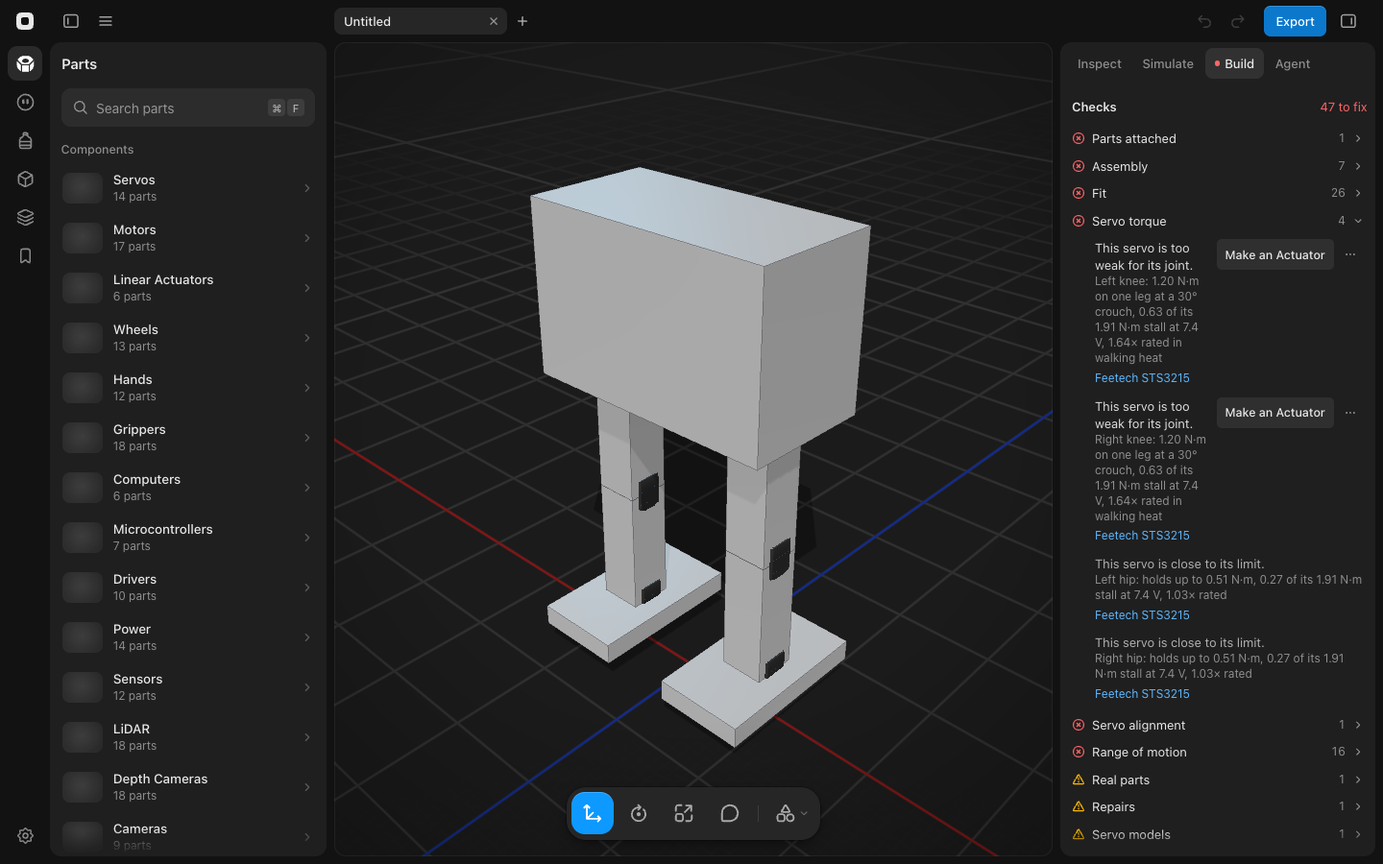
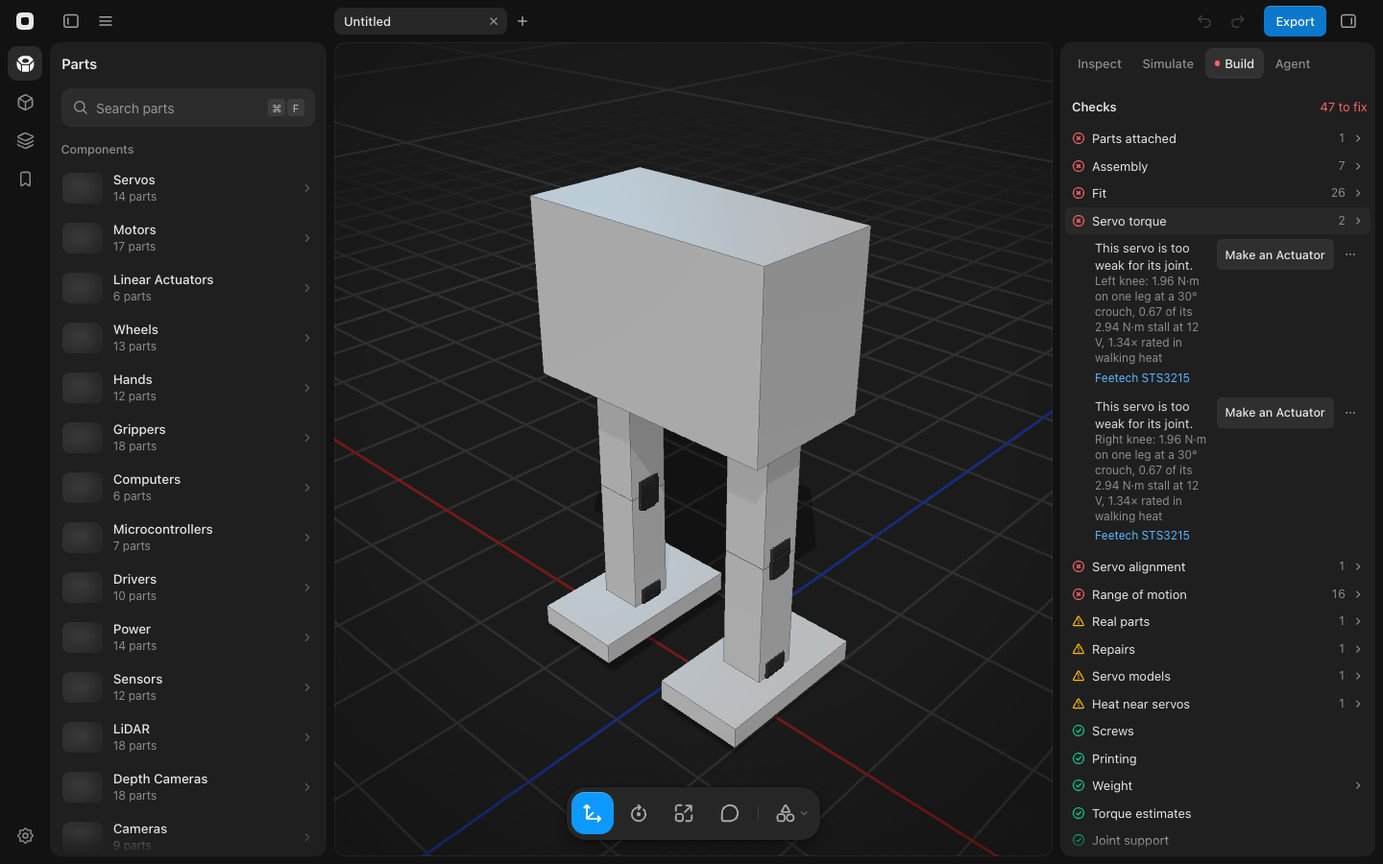
Tell the Build check help articles about Make an Actuator
A failing Servo torque item now shows Make an Actuator where other items
show Fix. The troubleshooting article for blocked checks gets a "Servo
torque is red" section with that step, and Checks in the Build tab says
which items offer it. Both link the Make an Actuator article.

The other help articles that cover files this change edits still hold.
In those files the change only rewires code.

diff --git a/src/actuator/pickActuator.ts b/src/actuator/pickActuator.ts
@@ -1,6 +1,8 @@
 import type { ActuatorSpec } from '../data/components';
 import { bedSizeText, fitOnBed, type Bed } from '../print/bed';
-import { holdVerdict, PEAK_DERATE, ratingAt, stanceVerdict } from '../utils/actuatorRules';
+import { holdVerdict, PEAK_DERATE, ratingAt, stanceVerdict, suitsVolts } from '../utils/actuatorRules';
+import { nm } from '../utils/engineeringFormat';
+import { sizeLabel } from '../utils/size';
 import { cycloidalDesign, type CycloidalDesign } from './cycloidal';
 import { cycloidalOptions, cycloidalSpec, cycloidalVariantId } from './generated';
 import { BLDC_MOTORS, type BldcDriver, type BldcMotor } from './motors';
@@ -50,6 +52,15 @@ function choiceOf(option: { motor: BldcMotor; driver: BldcDriver; ratio: number 
   };
 }
 
+function voltsProblem(options: ActuatorChoice[], volts: number): string {
+  const low = Math.min(...options.map((c) => c.spec.volts[0]));
+  const high = Math.max(...options.map((c) => c.spec.volts[1]));
+
+  return `Actuators run on ${low}–${high} V, not the ${volts} V supply`;
+}
+
+const suitsSupply = (c: ActuatorChoice, volts?: number) => volts === undefined || suitsVolts(c.spec, volts);
+
 export function pickActuator(need: ActuatorNeed): ActuatorPick {
   const all = BLDC_MOTORS.flatMap(cycloidalOptions).map(choiceOf);
   const printable = all.filter((c) => fitsBed(c.design, need.bed));
@@ -57,14 +68,20 @@ export function pickActuator(need: ActuatorNeed): ActuatorPick {
   if (!printable.length) {
     const smallest = Math.min(...all.map((c) => c.design.housingD));
 
-    return { problem: `The smallest actuator is ${smallest} mm across, too wide for a ${bedSizeText(need.bed)} bed` };
+    return {
+      problem: `The smallest actuator is ${sizeLabel([smallest])} across, wider than the ${bedSizeText(need.bed)} bed`,
+    };
   }
 
-  const choice = printable.find((c) => carries(c.spec, need));
+  const powered = printable.filter((c) => suitsSupply(c, need.volts));
+
+  if (!powered.length) return { problem: voltsProblem(printable, need.volts!) };
+
+  const choice = powered.find((c) => carries(c.spec, need));
 
   if (choice) return { choice };
 
-  const strongest = Math.max(...printable.map((c) => c.spec.stallNm));
+  const strongest = Math.max(...powered.map((c) => c.spec.stallNm));
 
-  return { problem: `No actuator carries ${need.loadNm.toFixed(2)} N·m: the strongest stalls at ${strongest} N·m` };
+  return { problem: `The strongest actuator stalls at ${nm(strongest)} N·m` };
 }

diff --git a/src/actuator/actuatorBuild.test.ts b/src/actuator/actuatorBuild.test.ts
@@ -1,6 +1,7 @@
 import { describe, expect, it } from 'vitest';
 import { actuatorOf } from '../data/components';
 import { fixtureTriangles } from '../sim/fixtures/parts';
+import { fallBiped } from '../sim/fixtures/fallBiped';
 import { buildMjcf } from '../sim/mjcf';
 import { buildBom } from '../utils/bom';
 import { buildRig } from '../utils/kinematics';
@@ -37,6 +38,20 @@ describe('Make an Actuator', () => {
     expect(after.joints.find((j) => j.id === 'l_knee')!.actuators).toEqual([after.motorId]);
     expect(status(after, 'l_knee')).toBe('pass');
     expect(kneeItem(after)).toBeUndefined();
+  });
+
+  it('powers the actuator from the supply the servos share, and refuses a supply below its driver', () => {
+    const after = makeActuator(loadedBiped(), 'l_knee');
+    const row = (scene: ActuatorScene, check: string) => engineeringOf(scene).rows.find((r) => r.check === check)!;
+    const smallBiped = fallBiped('c001', 3000);
+
+    expect(row(after, 'Servo voltage')).toMatchObject({ status: 'pass', detail: expect.stringContaining('10–48 V') });
+    expect(row(after, 'Supply current').detail).not.toBe(row(loadedBiped(), 'Supply current').detail);
+    expect(kneeItem(smallBiped)).toMatchObject({
+      status: 'fail',
+      text: expect.stringContaining('not the 7.4 V supply'),
+    });
+    expect(kneeItem(smallBiped)).not.toHaveProperty('fix');
   });
 
   it('writes the knee’s gear, force range and reflected armature into the MJCF', () => {
@@ -85,6 +100,21 @@ describe('Make an Actuator', () => {
       'Disc 1',
       'Disc 2',
     ]);
+  });
+
+  it('replaces the whole actuator when the joint already has one', () => {
+    const once = makeActuator(loadedBiped(), 'l_knee');
+    const twice = buildActuator(once, 'l_knee', choiceOf(D6374_15)!)!;
+    const housings = twice.parts.filter((p) => p.name === 'Housing');
+    const ids = new Set(twice.parts.map((p) => p.id));
+    const knee = twice.joints.find((j) => j.id === 'l_knee')!;
+
+    expect(twice.parts).toHaveLength(once.parts.length);
+    expect(housings).toHaveLength(1);
+    expect(twice.removed).toBe(once.motorId);
+    expect(twice.joints.flatMap((j) => [...j.parent, ...j.child]).every((id) => ids.has(id))).toBe(true);
+    expect(knee.actuators).toEqual([twice.motorId]);
+    expect(twice.parts.find((p) => p.id === twice.motorId)!.componentVariant).toBe('cycloidal-15-moteus-r4');
   });
 
   it('gives the same actuator for the same scene and joint', () => {

diff --git a/src/actuator/actuatorBuild.ts b/src/actuator/actuatorBuild.ts
@@ -5,6 +5,7 @@ import type { RobotJoint, ScenePart } from '../types/robotics';
 import { prettyJointName } from '../utils/kinematics';
 import { pieceCad, PRINTED_PIECES } from './actuatorCode';
 import { DISC_BEARING, OUTPUT_BEARING } from './cycloidal';
+import { cycloidalVariant } from './generated';
 import { ENCODER_ID } from './motors';
 import type { ActuatorChoice } from './pickActuator';
 
@@ -184,12 +185,30 @@ function rewire(joints: RobotJoint[], target: RobotJoint, ids: Rewire): RobotJoi
   );
 }
 
-export function buildActuator(scene: ActuatorScene, jointId: string, choice: ActuatorChoice): BuiltActuator | null {
-  const joint = scene.joints.find((j) => j.id === jointId);
+const isGenerated = (p: ScenePart) => !!p.componentId && !!cycloidalVariant(p.componentId, p.componentVariant ?? '');
 
-  if (!joint || joint.type !== 'revolute') return null;
+function withoutOld(scene: ActuatorScene, servo: ScenePart | undefined): ActuatorScene {
+  const groupId = servo && isGenerated(servo) ? servo.group?.id : undefined;
 
-  const servo = scene.parts.find((p) => p.id === joint.actuators?.[0]);
+  if (!groupId) return scene;
+
+  const gone = new Set(scene.parts.filter((p) => p.group?.id === groupId && p.id !== servo?.id).map((p) => p.id));
+  const keep = (ids: string[]) => ids.filter((id) => !gone.has(id));
+
+  return {
+    parts: scene.parts.filter((p) => !gone.has(p.id)),
+    joints: scene.joints.map((j) => ({ ...j, parent: keep(j.parent), child: keep(j.child) })),
+  };
+}
+
+export function buildActuator(current: ActuatorScene, jointId: string, choice: ActuatorChoice): BuiltActuator | null {
+  const target = current.joints.find((j) => j.id === jointId);
+
+  if (!target || target.type !== 'revolute') return null;
+
+  const servo = current.parts.find((p) => p.id === target.actuators?.[0]);
+  const scene = withoutOld(current, servo);
+  const joint = scene.joints.find((j) => j.id === jointId)!;
   const frame = actuatorFrame(scene, joint, servo, choice.design.stageH);
   const taken = new Set(scene.parts.filter((p) => p.id !== servo?.id).map((p) => p.id));
   const group = { id: uniqueId(`${joint.id}-actuator`, taken), name: `${prettyJointName(joint.name)} actuator` };

diff --git a/src/actuator/actuatorFix.ts b/src/actuator/actuatorFix.ts
@@ -12,17 +12,16 @@ export type ActuatorFix = Extract<FindingFix, { kind: 'make-actuator' }>;
 export const sceneBed = (project: Pick<ProjectSettings, 'printer'>, bed?: Bed): Bed =>
   bed ?? bedOf(resolvePrinter(project.printer, []).model);
 
-export function actuatorFor(load: JointLoad, bed: Bed, walk?: WalkSim | string): ActuatorPick {
+export interface OfferScene {
+  bed: Bed;
+  walk?: WalkSim | string;
+  volts?: number;
+}
+
+export function actuatorFor(load: JointLoad, { bed, walk, volts }: OfferScene): ActuatorPick {
   const peakNm = typeof walk === 'object' ? walk.joints[load.joint.id]?.p99Nm : undefined;
 
-  return pickActuator({
-    loadNm: load.loadNm,
-    kind: load.kind,
-    rmsNm: load.simRmsNm,
-    peakNm,
-    volts: load.volts,
-    bed,
-  });
+  return pickActuator({ loadNm: load.loadNm, kind: load.kind, rmsNm: load.simRmsNm, peakNm, volts, bed });
 }
 
 export const fixOf = (joint: string, c: ActuatorChoice): ActuatorFix => ({
@@ -54,10 +53,10 @@ export interface TorqueOffer {
   why?: string;
 }
 
-export function torqueOffer(load: JointLoad, bed: Bed, walk?: WalkSim | string): TorqueOffer {
+export function torqueOffer(load: JointLoad, scene: OfferScene): TorqueOffer {
   if (load.status !== 'fail' || !load.joint.actuators?.length) return {};
 
-  const pick = actuatorFor(load, bed, walk);
+  const pick = actuatorFor(load, scene);
 
   return 'choice' in pick ? { fix: fixOf(load.joint.id, pick.choice) } : { why: pick.problem };
 }

diff --git a/src/actuator/pickActuator.test.ts b/src/actuator/pickActuator.test.ts
@@ -43,13 +43,19 @@ describe('pickActuator', () => {
     const pick = pickActuator(need(1, { bed: small }));
 
     expect('choice' in pick).toBe(false);
-    expect(pick).toEqual({ problem: 'The smallest actuator is 84.5 mm across, too wide for a 80 × 80 × 80 mm bed' });
+    expect(pick).toEqual({ problem: 'The smallest actuator is 84.5 mm across, wider than the 80 × 80 × 80 mm bed' });
+  });
+
+  it('never offers a driver the supply can’t power, and says why', () => {
+    expect(pickActuator(need(1, { volts: 7.4 }))).toEqual({
+      problem: 'Actuators run on 10–48 V, not the 7.4 V supply',
+    });
+    expect(pickActuator(need(1, { volts: 12 }))).toHaveProperty('choice.driver.short', 'moteus-c1');
+    expect(pickActuator(need(1, { volts: 46 }))).toHaveProperty('choice.driver.short', 'moteus-c1');
   });
 
   it('says what the strongest actuator stalls at when none carries the load', () => {
-    expect(pickActuator(need(200))).toEqual({
-      problem: 'No actuator carries 200.00 N·m: the strongest stalls at 89.32 N·m',
-    });
+    expect(pickActuator(need(200))).toEqual({ problem: 'The strongest actuator stalls at 89.32 N·m' });
   });
 
   it('gives the same actuator for the same inputs', () => {

diff --git a/src/utils/engineering.ts b/src/utils/engineering.ts
@@ -128,10 +128,10 @@ export function robotWeight(input: Pick<EngineeringInputs, 'parts' | 'project' |
   return { masses, byId, bodies, all };
 }
 
-const actuatorOffers = (input: EngineeringInputs) => {
-  const bed = sceneBed(input.project, input.bed);
+const actuatorOffers = (input: EngineeringInputs, volts?: number) => {
+  const scene = { bed: sceneBed(input.project, input.bed), walk: input.walk, volts };
 
-  return (l: JointLoad) => torqueOffer(l, bed, input.walk);
+  return (l: JointLoad) => torqueOffer(l, scene);
 };
 
 export function runEngineering(input: EngineeringInputs): EngineeringReport {
@@ -160,7 +160,7 @@ export function runEngineering(input: EngineeringInputs): EngineeringReport {
     ...(ctx.joints.length ? [] : [{ check: 'Servo torque', status: 'not run' as const, detail: 'No joints' }]),
     ...(loads.length
       ? [
-          withNoFeetNote(torqueRow(loads, env.crouch.share, actuatorOffers(input)), floating),
+          withNoFeetNote(torqueRow(loads, env.crouch.share, actuatorOffers(input, env.volts)), floating),
           ...peakRow(loads, project, input.walk, servoLookup(ctx.byPart)),
           ...fallsRow(loads, input.falls),
         ]

diff --git a/src/workspace/useMakeActuator.ts b/src/workspace/useMakeActuator.ts
@@ -3,6 +3,7 @@ import { actuatorFor, choiceOf, type ActuatorFix } from '../actuator/actuatorFix
 import type { ActuatorChoice } from '../actuator/pickActuator';
 import { bedOf } from '../print/bed';
 import type { ScenePart } from '../types/robotics';
+import { servoParts, servoSupplyVolts } from '../utils/engineeringPower';
 import { IS_WEB_DEMO } from '../utils/platform/webDemo';
 import { runEngineeringNow } from './engineeringNow';
 import { freshWalk } from './storedWalk';
@@ -26,7 +27,8 @@ export function useMakeActuator(core: WorkspaceCore) {
 
     if (!load) return `No joint ${jointId}`;
 
-    const pick = actuatorFor(load, bedOf(printer.model), freshWalk(parts, project));
+    const volts = servoSupplyVolts({ parts, project, servos: servoParts(parts) });
+    const pick = actuatorFor(load, { bed: bedOf(printer.model), walk: freshWalk(parts, project), volts });
 
     return 'choice' in pick ? pick.choice : pick.problem;
   };

diff --git a/e2e/actuator.e2e.test.ts b/e2e/actuator.e2e.test.ts
@@ -1,5 +1,5 @@
 import { afterAll, beforeAll, describe, expect, it } from 'vitest';
-import { fallBiped, LOADED_BODY_G } from '../src/sim/fixtures/fallBiped';
+import { loadedBiped } from '../src/sim/fixtures/fallBiped';
 import type { ScenePart } from '../src/types/robotics';
 import { buildCheckPage, sceneRecord, studioLoad, visible, type StudioHook } from './buildCheckFixtures';
 import { openApp, partCount, type App } from './harness';
@@ -30,7 +30,7 @@ afterAll(async () => {
 
 describe('Make an Actuator', () => {
   it('replaces a failing knee servo with a printed cycloidal actuator from its Fix, and undoes it in one step', async () => {
-    const biped = fallBiped('c001', LOADED_BODY_G);
+    const biped = loadedBiped();
 
     await studioLoad(app.page, {
       parts: biped.parts,

diff --git a/src/actuator/fixtures/loadedBiped.ts b/src/actuator/fixtures/loadedBiped.ts
@@ -1,12 +1,12 @@
 import { fixtureMeasures } from '../../sim/fixtures/parts';
-import { fallBiped, LOADED_BODY_G } from '../../sim/fixtures/fallBiped';
+import { loadedBiped as loadedRobot } from '../../sim/fixtures/fallBiped';
 import type { MeshMeasure } from '../../three/meshMeasure';
 import { DEFAULT_PROJECT, type ProjectSettings, type ScenePart } from '../../types/robotics';
 import { runEngineering } from '../../utils/engineering';
 import type { ActuatorScene } from '../actuatorBuild';
 
 export const loadedBiped = (): ActuatorScene => {
-  const robot = fallBiped('c001', LOADED_BODY_G);
+  const robot = loadedRobot();
 
   return { parts: robot.parts, joints: robot.joints };
 };

diff --git a/src/sim/fixtures/fallBiped.ts b/src/sim/fixtures/fallBiped.ts
@@ -93,4 +93,11 @@ export function fallBiped(kneeVariant = 'c001', bodyG = 1400): FixtureRobot {
 
 export const FALL_BIPED_KNEES = ['l_knee', 'r_knee'];
 
-export const LOADED_BODY_G = 3000;
+export function loadedBiped(): FixtureRobot {
+  const robot = fallBiped('c018', 5500);
+
+  return {
+    ...robot,
+    parts: robot.parts.map((p) => (p.componentId === SERVO ? { ...p, componentVariant: 'c018' } : p)),
+  };
+}

diff --git a/src/utils/powerSources.ts b/src/utils/powerSources.ts
@@ -45,7 +45,7 @@ const isCell = (c: ComponentInfo) => !!c.battery?.cell;
 export const drivesJoint = (p: ScenePart) => {
   const c = componentOf(p);
 
-  return c?.group === 'Servos' || !!c?.actuator;
+  return c?.group === 'Servos' || !!c?.actuator || (!!c && !!actuatorOf(c.id, p.componentVariant));
 };
 
 function holderPack(comps: ComponentInfo[]): PowerSource | undefined {

diff --git a/docs/guide/build.md b/docs/guide/build.md
@@ -39,7 +39,7 @@ The Build tab (right panel) and the agent's build tools turn a model into someth
   - Weight: total mass and centre of mass from printed mass, catalog weights, fastener volume × finish density, supply weights; estimates flagged.
   - Servo torque (`actuatorRules.ts`, `engineeringCrouch.ts`): stall and rated torque at the servo supply voltage (a regulator's output, else the battery's nominal), interpolated over the datasheet's voltage points and scaled down below the lowest, never rated at more than the supply can reach. Leg pitch joints (the largest set of parallel, level axes in a leg, whichever way the robot faces; a knee settles a tie) carry the whole robot on one leg (two for 3+ legs, for stance as well as crouch) at the gait's crouch, at least 30°: τ = m·g·lever·sin(θ/2). **Stance** PASS ≤ 0.40 of stall, WARN to 0.60, FAIL above; **Heat** 0.67 × τ ÷ rated PASS ≤ 1.0, WARN to 1.6, FAIL above. Other joints hold their limb across the range: PASS ≤ 0.40 of stall and ≤ rated, FAIL above 0.60. Rated falls back to ¼ of stall. A joint's rating sums the catalog actuators on it and skips the rest, as the MJCF writer does (`jointServos`). Joints with neither a catalog actuator nor a published limit aren't graded here (all of them: Not run); Torque estimates names them. **Peak** is Not run until a trained walk policy is simulated with force limits at 0.7 × stall. The thresholds come from robots that walk (docs/research/Agent harness/actuator_sizing.md): no walker meets the old 1/5-of-stall rule at the knee. Actuator numbers per version in `ComponentInfo.actuator` / `variants`, with sources.
   - Servo picks for a sized arm (`utils/armServos.ts`, §8c): Size Arm to Targets and `size_arm` grade the arm with these rules on its skeleton, the payload at the wrist joint's tip (`payloadG`), and run `sizeActuators` over the servos in the STS3215 outline (`LINK_OUTLINE`: STS3215 versions, STS3250, ST3215-HS), since the printed links are cut for that body. It takes the cheapest family where every joint passes, so each joint gets the cheapest of those servos that holds its limb at that supply voltage, and a heavier payload never picks a weaker shoulder (`armSizing.test.ts`). The picks land on the skeleton's joints, where Edit Skeleton's margins grade them, and as catalog servos in the scene, which the BOM prices. The arm gets no `project.joints`, so Servo torque reads Not run until `define_joints` or Add Hinge declares joints between its parts.
-  - Make an Actuator (`src/actuator/`, desktop only, since the CAD kernel compiles the printed parts): a failing Servo torque item on a joint with a servo carries a `make-actuator` fix when a generated actuator (§8a) carries the load (`torqueOffer` in `actuatorFix.ts`, wired through `torqueRow`), and the item's button reads Make an Actuator. `pickActuator.ts` takes the lowest ratio, then the smaller driver, whose spec passes these rules with the joint's stance or holding load × 1.5 (`ADDED_MASS_MARGIN`, headroom for the actuator's own weight, about 1 kg with the 890 g motor) and its walking peak when a walk was simulated, among those whose housing fits the scene printer's bed. When none fits the bed or none is strong enough, the item says so instead (“The smallest actuator is 84.5 mm across, too wide for a 80 × 80 × 80 mm bed”, “No actuator carries … N·m: the strongest stalls at 89.32 N·m”). ⌘K Make an Actuator (the active joint, §11) and the agent's `make_actuator` (§9) pick the same way. `actuatorBuild.ts` places it in one undo step (`useMakeActuator`): the motor replaces the joint's servo as its actuator, the driver behind the motor, the encoder on the cover, two 6804 bearings (one per disc) and a 6806 output bearing, 4 × M4 × 8 button heads into the motor face, 6 × M3 × 14 cover screws into 6 M3 heat-set inserts, and the six printed parts (Housing, Cover, Disc 1, Disc 2, Output, Input shaft), grouped as “⟨joint⟩ actuator” on the joint axis outboard of the output-side link, the output facing it. The BOM lists the motor under its version (“ODrive D6374 150KV 10:1 cycloidal”), the driver, encoder, bearings and fasteners as bought lines; the printed parts go on plates (§8f). The driver and encoder aren't fastened to anything, and the housing needs a bracket to the parent link (the recipe's `mount` port is the motor bolts), so Parts attached flags them. Fixture: the long-legged STS3215 biped carrying a 3 kg body (`src/actuator/fixtures/loadedBiped.ts`) fails at the left knee (1.20 N·m at the 30° crouch, 0.63 of 1.91 N·m stall at 7.4 V); the actuator, 10:1 on a moteus-c1, passes it (`actuatorBuild.test.ts`, `e2e/actuator.e2e.test.ts`). The hip and hip roll servos above it then fail under the added weight.
+  - Make an Actuator (`src/actuator/`, desktop only, since the CAD kernel compiles the printed parts): a failing Servo torque item on a joint with a servo carries a `make-actuator` fix when a generated actuator (§8a) carries the load (`torqueOffer` in `actuatorFix.ts`, wired through `torqueRow`), and the item's button reads Make an Actuator. `pickActuator.ts` takes the lowest ratio, then the smaller driver, whose spec passes these rules with the joint's stance or holding load × 1.5 (`ADDED_MASS_MARGIN`, headroom for the actuator's own weight, about 1 kg with the 890 g motor) and its walking peak when a walk was simulated, among those whose housing fits the scene printer's bed and whose driver runs on the servo supply voltage (`suitsVolts`; both moteus drivers need 10 V). When none fits the bed, none runs on the supply or none is strong enough, the item says so instead (“The smallest actuator is 84.5 mm across, wider than the 80 × 80 × 80 mm bed”, “Actuators run on 10–48 V, not the 7.4 V supply”, “The strongest actuator stalls at 89.32 N·m”). ⌘K Make an Actuator (the active joint, §11) and the agent's `make_actuator` (§9) pick the same way. `actuatorBuild.ts` places it in one undo step (`useMakeActuator`): the motor replaces the joint's servo as its actuator, the driver behind the motor, the encoder on the cover, two 6804 bearings (one per disc) and a 6806 output bearing, 4 × M4 × 8 button heads into the motor face, 6 × M3 × 14 cover screws into 6 M3 heat-set inserts, and the six printed parts (Housing, Cover, Disc 1, Disc 2, Output, Input shaft), grouped as “⟨joint⟩ actuator” on the joint axis outboard of the output-side link, the output facing it. The BOM lists the motor under its version (“ODrive D6374 150KV 10:1 cycloidal”), the driver, encoder, bearings and fasteners as bought lines; the printed parts go on plates (§8f). The driver and encoder aren't fastened to anything, and the housing needs a bracket to the parent link (the recipe's `mount` port is the motor bolts), so Parts attached flags them. Fixture: the long-legged biped on 12 V STS3215 C018s carrying a 5.5 kg body (`loadedBiped` in `src/sim/fixtures/fallBiped.ts`) fails at the left knee (1.96 N·m at the 30° crouch, 0.67 of 2.94 N·m stall at 12 V); the actuator, 10:1 on a moteus-c1, passes it (`actuatorBuild.test.ts`, `e2e/actuator.e2e.test.ts`). The 12 V tether stays inside both ranges, so Servo voltage passes, but Supply current fails (about 21 A peak against the tether's 10 A), and the left hip, left hip roll and right knee servos fail under the added weight. The same biped on 7.4 V C001s gets no actuator: its knee item says the supply is below 10 V. Making an actuator on a joint that already has one replaces the whole “⟨joint⟩ actuator” group.
   - Peak torque (`engineeringPeak.ts`, `agentPeak.ts`, `utils/peakTorque.ts`): `verify_design` with `peak: true` walks the latest walk policy in MuJoCo for 14 s with two shoves of 0.3 × weight, every force limit at 0.7 × stall at the supply voltage. Per leg joint, whichever load grades it in Servo torque: the 99th percentile (25 ms windows) of the torque the joint *asks for* (the position servo's command before its force limit; the delivered force can never pass the limit) over stall. PASS ≤ 0.8, WARN ≤ 1.0, FAIL above stall for more than 50 ms or a fall. Speed counts too (`engineeringEnvelope.ts`): the recorder keeps each window's mean signed torque demand and joint speed (`actuator_velocity`, `jointSpeeds` in `sim/simForces.ts`), stored per joint for every second window after the first second as `WalkJoint.samples`, `[rpm, N·m]` pairs (about 260 a joint, so the saved scene stays small). A servo's envelope is the straight line from stall at 0 rpm to its no-load rpm at the supply voltage (`ratingAt`, which reads `rpm` from the catalog's points; a joint with several servos adds their stall and takes the slowest rpm, and has no rpm unless every servo on it has one). A window falls outside it when the servo is driving (torque and speed share a sign) and asks for more than the line allows at that speed (`outsideEnvelope`); braking windows don't count, since a back-driven servo isn't held to its motoring line. More than 5% of a joint's windows outside makes it WARN, and its item names the joint and the share, so the agent's `check` output does too. A joint with samples, an rpm and a catalog servo carries a `JointEnvelope` on the row (`CheckRow.envelopes`, passed to `CheckSummary`); the item that names a joint carries its id (`joint`, passed on to its `Finding`), so opening Peak torque plots a flagged joint's windows under its own item, and lists the other joints as rows (`DisclosureRow`) that open to the same plot (`build/EnvelopeRows.tsx`), each joint once. The plot is `TracePlot`'s points mode: driving windows light, braking ones grey, the servo's line in the accent, its rated torque dashed, and the next servo up (`servoUp` in `actuatorSizing.ts`: the weakest servo on the same bus that suits the voltage, has an rpm and beats the joint's stall by over 5%, the margin `pickFor` uses for `up`) as a grey line, each named under the plot. The walk's RMS replaces 0.67 × stance in Heat, and its measured current feeds Current and runtime. Not run without a walk policy. A walk that ran is stored on the project (`project.walk`, `storedWalk.ts`) under a key of the parts, joints and latest walk policy (`walkKey`); the live Checks pass it to the engineering run while the key still matches (`freshWalk`), so Peak torque, Heat and Current and runtime keep the measured numbers until the design changes, and fall back to their estimates after. Building the MuJoCo model still runs on the main thread (about 0.5 s the first time, hulls cached per part after, `mjcfHull.ts`), as the live sim does.
   - Falls (`engineeringFalls.ts`, `agentFalls.ts`, `sim/fallRuns.ts`): what a fall does to the gears, which Peak torque never sees because its walk stops at the fall. `verify_design` with `falls: true` holds the modelled pose (`project.pose`) with every force limit at 0.7 × stall at the supply voltage (`peakLimits`, as Peak torque does), lets it settle 0.5 s, then leans on the torso at 0.8 × body weight until it tilts 25° or 1 s passes (`pushRobot` with `releaseDeg`), from 12 directions 30° apart, 2 s each. All 12 run in one sim worker job (`falls` in `sim.worker.ts`, `Simulation.falls`), recording through the Peak recorder (`TorqueRecorder`) in 10 ms windows. First ground contact is the first step a body touches the floor that wasn't touching it when the lean began. Per leg joint (`peakJoints`), the 99th percentile of the torque it asks for over the windows within 0.3 s of that contact, worst over the directions that fell, over its rated torque at the supply voltage (`RATED_OF_STALL` × stall when the datasheet gives none): PASS ≤ 3×, WARN ≤ 5×, FAIL above. These are estimates, after SafeFall's rule of thumb (arXiv 2511.18509) that gears survive about 3–5× rated torque for a moment, and the detail says so. A servo whose datasheet stall is a peak rating (`peak: true`) fails above that peak instead. Each flagged joint is an item, “⟨joint⟩: ⟨multiple⟩× rated, falling ⟨direction⟩” (the nearest of eight directions, forward being +z and left +x), selecting the joint's child link; its `replay-fall` fix (Replay in Sim) selects the link, opens Simulate and gives the live sim the same lean in that direction on Hold (`replayFall`; the live sim keeps its own force limits). Not run with “No legs” on a robot without leg joints, and with “Didn’t tip over in any direction” when nothing falls (a run with `tipped: 0`, which a fixed-base robot also gets); a legged robot that hasn't been measured reads Not run, and one without legs gets no row. A run, tipped or not, is stored on the project (`project.falls`, `storedFalls`) under a key of the parts, joints and modelled pose (`fallsKey`), and the live Checks show it while the key matches (`freshFalls`). A sim error (“The falls didn’t run: …”) shows only in that verify's output and isn't stored, so the next run tries again. The seeded fault (`engineeringFalls.test.ts`, `sim/fixtures/fallBiped.ts`): a 2.38 kg biped on STS3215 C001s, its legs two 119 mm links each and crouched 60° at the knee, fails at a knee, falling backward or forward; C044 knees lower the knee's multiple. The test pins the status and the joint, not the multiple: the app's meshes and the Node fixture's boxes give different numbers. The servo quad passes or warns, the hexapod passes, and the rover and the arm read Not run. The 12 falls for that biped take 0.65 s in Node on an M-series Mac, within the 15 s the test allows.
   - Torque estimates and Servo models (`engineeringSimModel.ts`): what the simulation has to guess, as notes. Torque estimates names the movable joints with no catalog actuator and no published limit, whose force limit the MJCF writer estimates from the weight they hold (§8d), and selects their child parts. An estimated stand-in servo (a block-out with no actuator spec) counts as no servo there, as it does for the MJCF writer, so its joint reads “No servo on …”. Servo models names the Servos-group parts on joints without a Measured calibration (`measuredJoints`, §8k: the joint's active calibration is measured and fits its servo), whose response comes from the catalog preset or an estimate, and selects them. A catalog fit (STS3215 C001, XL330) is a published model of another unit, so its joints count until they're calibrated. When any of them can be calibrated (`calibratable` in `src/reality/servoPart.ts`: a catalog servo on a Feetech or Dynamixel bus, so not a PWM servo), the finding carries a `calibrate` fix with those joints: Fix selects their servos, opens Operate and, when the robot is connected from this scene in Test, calibrates those joints alone (`calibrateJoints`); without one, Fix asks the agent as for any note. A rollback to the preset brings the joint back into the row, and the seeded fault (`engineeringSimModel.test.ts`) is a six-joint biped with one joint rolled back. It grades only revolute joints that aren't wheels: the simulation never applies a measured model to wheels or slides, and gearmotors and steppers have none, so those are left out rather than warned about. Each is one finding, never one per joint, naming at most three joints and three servos and counting the rest; every part stays selected. Neither runs without movable joints, and Servo models not without a servo it grades. They replace the estimate notes the Simulate tab used to carry.
@@ -51,7 +51,7 @@ The Build tab (right panel) and the agent's build tools turn a model into someth
   - Range of motion: the distal parts swept through the range against the rest and the floor, with mesh interference, at every 15° inside the range plus both ends (30° for published joints, §0f); reports how far each joint end is clear. A clash thinner than the step can fall between samples. Slides (`prismatic`) can't be swept, and the row says how many it skipped. Fails for designed joints. Published robots' joints (`RobotJoint.published`) only warn: their limits are the motor's, reached with other joints moved, and contact under 5 mm is links meeting at a hard stop.
     - A servo's output turns with its joint: its horns, spline and output gear (the mesh bodies centred on its output line, `three/analysis/rotorSplit.ts`) rotate with the link they drive, so screws seated in a horn never “hit” their own servo. Pose and animation checks test the parts riding an output against the servo's case alone (`outputRiders.ts`). Meshes whose horn shares vertices with the case (DS3218, XM430, XM540, the XL430's front horn) can't be split and fall back to one rigid body.
   - Published robots: link masses (`ScenePart.massG`) and centres of mass (`ScenePart.com`, in the part's frame), both from `<inertial>`, count as known weights, and each joint's torque limit (`effortNm`: URDF `effort`, MJCF `actuatorfrcrange` / actuator `forcerange`) stands in for servo data: Pass ≤ half of it, Warn ≤ it. Servo alignment and joint support only run when a joint has servos.
-  - Battery (`utils/powerSources.ts`): Power packs in the scene, else a holder with matching cells (series multiplies volts, parallel multiplies capacity), else a lone cell, plus any battery supply (older scenes). With several, the checks use the one that suits the actuators best (`servoSource`), so part order never changes a verdict. Every component with an `actuator` counts, motors as well as servos. The parts decide the power source, never a setting: a battery in the build means it runs on the battery; a build with actuators and no battery runs on a tether (`sceneTether`). The tether's volts and amps are `project.tether` (from the fields in the power check rows or `set_build`), else `suggestedTether`; a stored tether is ignored while a battery is in the build. On a tether, Servo voltage and Regulator input read its voltage, and Supply current (in place of Current and runtime) FAILs when the estimated peak passes its amps. A tether puts a DC Power Supply, fuse, switch and wire on the BOM (`bomNeeds.ts`), and a barrel pigtail when the bus adapter takes power through a jack (the netlist).
+  - Battery (`utils/powerSources.ts`): Power packs in the scene, else a holder with matching cells (series multiplies volts, parallel multiplies capacity), else a lone cell, plus any battery supply (older scenes). With several, the checks use the one that suits the actuators best (`servoSource`), so part order never changes a verdict. Every component with an `actuator`, or a version with one (a generated actuator's motor, §8a), counts, motors as well as servos (`drivesJoint`). The parts decide the power source, never a setting: a battery in the build means it runs on the battery; a build with actuators and no battery runs on a tether (`sceneTether`). The tether's volts and amps are `project.tether` (from the fields in the power check rows or `set_build`), else `suggestedTether`; a stored tether is ignored while a battery is in the build. On a tether, Servo voltage and Regulator input read its voltage, and Supply current (in place of Current and runtime) FAILs when the estimated peak passes its amps. A tether puts a DC Power Supply, fuse, switch and wire on the BOM (`bomNeeds.ts`), and a barrel pigtail when the bus adapter takes power through a jack (the netlist).
   - Servo voltage: battery full-charge voltage against each servo's listed range (an STS3215 C001 shuts down above 7.4 V). FAIL when it can't reach the minimum or passes the maximum; WARN when it sits under the minimum at nominal. When it's out of range but a regulator in the scene outputs inside every servo's range (and takes the battery as input), it passes and names the regulator to wire them to; with several, the highest voltage. Current and runtime: pack current against the battery's C rating, plus fuse (1.4 × peak) and runtime (0.8 × capacity ÷ average). Its source is the simulated walk when one exists for the current model and the robot stayed up (`walkedCurrent` in `engineeringPower.ts`): average and peak servo amps from the walk (`WalkSim.power`, §8d), plus idle for servos the walk didn't drive, and the joint with the highest average is named in the detail and as the row's item (context, so a FAIL still reads the detail). Without one it estimates (`servoCurrent`): leg servos at 0.45 × rated amps on average and rated at peak, the rest idle (twice idle at peak), and says “(estimate)”. Either way, servo amps behind a regulator are converted to pack amps (Vout ÷ (Vbatt × 0.9)), compute boards add their watts, and the row WARNs when servo amps pass the regulator's `ioutA`.
   - Regulator input: with regulators in the scene, the battery's nominal and full-charge voltage against each regulator's input range.
   - Standing stability (`engineeringStability.ts`): each robot's centre of mass over the outline of its feet, with tipping angle; the worst robot reports. A foot touches where its mesh does: the workers measure each part's `base`, the outline of its vertices within 1 mm of its lowest point (`shapeReports.ts`), so a ball touches at a point, an unjointed wheel along a strip across its tread and a tilted foot along its low edge. A wheel (a round part turning about a level axle through its centre) touches on a line under the axle, and two with no third contact WARN that it must balance itself. Only measures without a `base` fall back to the part's box.
